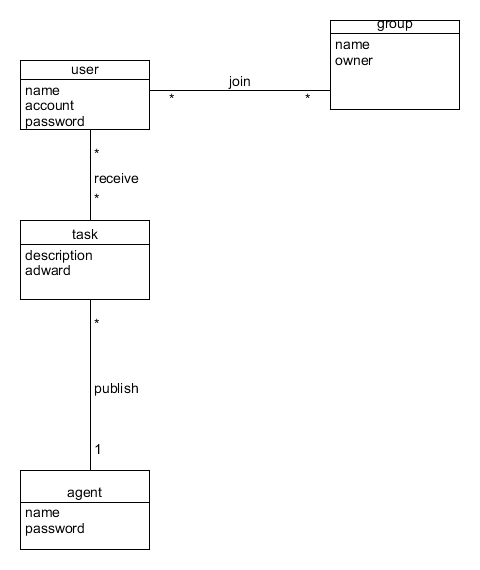
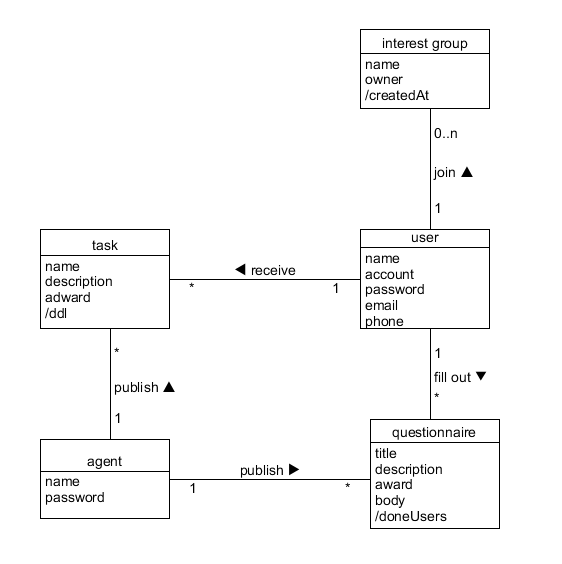
Domain Model

diff --git a/design.md b/design.md
@@ -3,6 +3,9 @@
 ---
 #### 2. Database design
 ```sql
+--
+-- Table structure for table `users`
+--
 CREATE TABLE `users` (
   `account` varchar(255) NOT NULL,
   `name` varchar(255) DEFAULT NULL,
@@ -15,6 +18,9 @@ CREATE TABLE `users` (
 ```
 
 ```sql
+--
+-- Table structure for table `tasks`
+--
 CREATE TABLE `tasks` (
   `id` bigint(20) unsigned NOT NULL AUTO_INCREMENT,
   `name` varchar(255) DEFAULT NULL,
@@ -29,6 +35,9 @@ CREATE TABLE `tasks` (
 ```
 
 ```sql
+--
+-- Table structure for table `TaskundoUsers`
+--
 CREATE TABLE `TaskundoUsers` (
   `task_id` bigint(20) unsigned NOT NULL,
   `user_account` varchar(255) NOT NULL,
@@ -37,6 +46,9 @@ CREATE TABLE `TaskundoUsers` (
 ```
 
 ```sql
+--
+-- Table structure for table `TaskdoneUsers`
+--
 CREATE TABLE `TaskdoneUsers` (
   `task_id` bigint(20) unsigned NOT NULL,
   `user_account` varchar(255) NOT NULL,
@@ -45,6 +57,9 @@ CREATE TABLE `TaskdoneUsers` (
 ```
 
 ```sql
+--
+-- Table structure for table `TaskUsers`
+--
 CREATE TABLE `TaskUsers` (
   `task_id` bigint(20) unsigned NOT NULL,
   `user_account` varchar(255) NOT NULL,

diff --git a/SRS.md b/SRS.md
@@ -16,7 +16,8 @@
    - 2.5 01-c04-用户（学生，奶牛）登陆用例描述
    - 2.6 01-t01-奶牛发布任务用例交互技术特征需求描述（也可以放入第六部分）
 3. 领域建模
-   - 3.1 挣闲钱系统或用例领域模型
+   - 3.1 挣闲钱系统用例进行领域模型
+    ![](pics/SRS/domainModel.png)
 4. 状态建模
    - 4.1 学生对象状态模型
    - 4.2 奶牛对象状态模型
